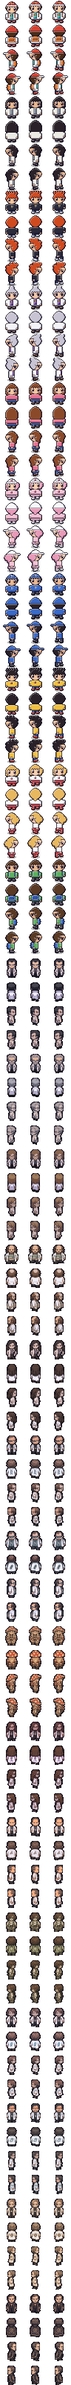
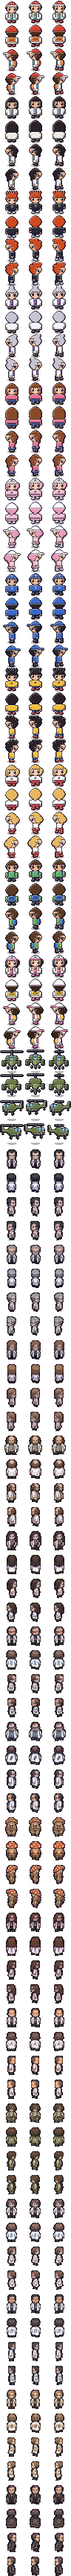
Elección de personaje: chico, chica o helicóptero Apache
Claude-Session: https://claude.ai/code/session_018v1fAZrQHSEnPWssP3zxe4

diff --git a/src/game/scenes/title.ts b/src/game/scenes/title.ts
@@ -2,7 +2,7 @@
 import type { Game, Scene } from "../game";
 import { Gfx, W, H } from "../gfx";
 import { Overworld } from "./overworld";
-import { newState, loadGame, hasSave } from "../state";
+import { newState, loadGame, hasSave, AVATAR_SPRITE, type Avatar } from "../state";
 import { runScript } from "../scripts";
 
 export class TitleScene implements Scene {
@@ -54,12 +54,21 @@ async function newGame(game: Game) {
   game.scene = intro;
   await game.fade(false, 12);
   const say = (t: string) => game.say(t);
-  await say("¡Hola! ¡Bienvenido/a al mundo de los Microos! Soy la Profesora Fanny Hesse.");
+  await say("¡Hola! ¡Te doy la bienvenida al mundo de los Microos! Soy la Profesora Fanny Hesse.");
   await say("Este mundo está habitado por criaturas diminutas llamadas Microos: bacterias, hongos, protozoos, algas… ¡y hasta virus!");
   await say("Algunos nos ayudan a hacer pan y yogur. Otros causan enfermedades. Y todos tienen algo que enseñarnos.");
   await say("Yo dedico mi vida a cultivarlos y estudiarlos. Pero antes… háblame de ti.");
-  const n = await game.choose(["Ana", "Leo", "Iris", "Escribir…"], { prompt: "¿Cómo te llamas?", x: 160, y: 20, cancel: 999 });
-  let name = ["Ana", "Leo", "Iris"][n] ?? "Ana";
+  await game.say("Las gafas no me dejan verte bien. Dime, ¿cómo eres?", { keep: true });
+  const av = AVATARS[await game.run<number>(new AvatarSelect())].id;
+  game.popKept();
+  game.state.avatar = av;
+  if (av === "apache") {
+    await say("…¿Un helicóptero de combate? ¿De verdad?");
+    await say("Bueno… la ciencia no juzga. Eso sí: en el laboratorio, el rotor apagado. ¡Las placas de Petri vuelan!");
+  } else await say(av === "chica" ? "¡Una futura microbióloga! Me encanta." : "¡Un futuro microbiólogo! Me encanta.");
+  const names = { chico: ["Leo", "Hugo", "Marc"], chica: ["Ana", "Iris", "Lucía"], apache: ["AH-64", "Rotor", "Halcón"] }[av];
+  const n = await game.choose([...names, "Escribir…"], { prompt: "¿Cómo te llamas?", x: 160, y: 20, cancel: 999 });
+  let name = names[n] ?? names[0];
   if (n === 3) { const typed = await game.run<string>(new NameEntry()); if (typed.trim()) name = typed.trim(); }
   game.state.name = name;
   await say(`¡Así que te llamas ${name}! Encantada.`);
@@ -77,6 +86,37 @@ export async function enterWorld(game: Game, map: string, x: number, y: number, 
   game.scene = w;
   await game.fade(false, 12);
   void runScript;
+}
+
+const AVATARS: { id: Avatar; label: string }[] = [
+  { id: "chico", label: "Chico" }, { id: "chica", label: "Chica" }, { id: "apache", label: "Apache" },
+];
+/** Elección del personaje: tres tarjetas con el sprite animado. Devuelve el índice. */
+class AvatarSelect {
+  sel = 1; result = 1; t = 0; transparent = true;
+  update(game: Game) {
+    this.t++;
+    if (game.input.repeat("right")) this.sel = (this.sel + 1) % 3;
+    if (game.input.repeat("left")) this.sel = (this.sel + 2) % 3;
+    if (game.input.pressed("a")) { this.result = this.sel; return true; }
+    return false;
+  }
+  draw(g: Gfx, game: Game) {
+    g.pattern("#283860", "#304070", this.t, "#182038");
+    game.keptDialog?.draw(g, game);
+    AVATARS.forEach((a, i) => {
+      const x = 14 + i * 80, y = 22, on = i === this.sel;
+      g.panel(x, y, 68, 100, on ? "#fff0b0" : "#d8e4f0", on ? "#f8b848" : "#8098b8", on ? "#c06818" : "#283048", 6);
+      g.alpha(0.2, () => g.round(x + 14, y + 72, 40, 8, 4, "#000"));
+      const heli = a.id === "apache";
+      const fr = heli ? Math.floor(this.t / 3) % 3 : on ? [0, 1, 0, 2][Math.floor(this.t / 10) % 4] : 0;
+      g.ctx.save(); g.ctx.translate(x + 2, y + 10 + (on && !heli ? 0 : 0)); g.ctx.scale(2, 2);
+      g.character(AVATAR_SPRITE[a.id], 0, fr, 0, heli ? -Math.round(Math.sin(this.t / 12)) : 0);
+      g.ctx.restore();
+      g.text(a.label, x + 34 - g.measure(a.label) / 2, y + 84, on ? "dark" : "white", on);
+    });
+    if (Math.floor(this.t / 20) % 2) { g.text("◀", 4, 66, "white"); g.text("▶", W - 10, 66, "white"); }
+  }
 }
 
 /** Teclado en pantalla para escribir el nombre (los diálogos del navegador no funcionan en todas partes). */

diff --git a/src/game/scripts.ts b/src/game/scripts.ts
@@ -87,6 +87,7 @@ const SCRIPTS: Record<string, Script> = {
     if (!S(game).flags.inicial) {
       await game.say("Madre: ¡Buenos días, {nombre}! La Profesora Hesse ha llamado. Dice que hoy es tu gran día.");
       await game.say("Madre: Su laboratorio está al sur del pueblo. ¡No la hagas esperar!");
+      if (S(game).avatar === "apache") await game.say("Madre: Y esta vez aterriza en el jardín, que las macetas aún no se han recuperado.");
       return;
     }
     await game.say("Madre: ¡Qué bien te veo con tu Microo! Descansad un poco.");
@@ -174,7 +175,7 @@ const SCRIPTS: Record<string, Script> = {
 
   async incubadora(game) {
     const s = S(game);
-    await game.say("¡Hola! Bienvenido/a a la Incubadora. Aquí cultivamos a tus Microos a 37 °C con agitación orbital.");
+    await game.say("¡Hola! Bienvenid{o} a la Incubadora. Aquí cultivamos a tus Microos a 37 °C con agitación orbital.");
     if (!s.party.length) { await game.say("Vaya, no llevas ningún Microo. ¡Vuelve cuando tengas uno!"); return; }
     if (!(await game.yesno("¿Quieres que incube a tus Microos?"))) { await game.say("¡Vuelve cuando quieras!"); return; }
     await game.say("Muy bien. Déjame tus Criobolas un momento…");
@@ -188,7 +189,7 @@ const SCRIPTS: Record<string, Script> = {
   async registrarIncubadora() {},
 
   async tienda(game, _w, arg) {
-    await game.say("¡Bienvenido/a a la Tienda de Medios!");
+    await game.say("¡Bienvenid{o} a la Tienda de Medios!");
     await shopMenu(game, (arg ?? "").split(","));
     await game.say("¡Vuelve pronto!");
   },
@@ -203,7 +204,7 @@ const SCRIPTS: Record<string, Script> = {
 
   async academia(game) {
     const s = S(game);
-    await game.say("Profesora de la Academia: ¡Bienvenido/a a la Academia de Infección y Estados!");
+    await game.say("Profesora de la Academia: ¡Bienvenid{o} a la Academia de Infección y Estados!");
     const c = await game.choose(["Contaminaciones", "Tipos", "Captura", "Nada"], { prompt: "¿Sobre qué quieres aprender?", x: 130, y: 20, cancel: 3 });
     const t: Record<number, string[]> = {
       0: ["Hay seis contaminaciones: desnaturalizado, congelado, paralizado, intoxicado, gravemente intoxicado y fase de latencia.",
@@ -216,7 +217,7 @@ const SCRIPTS: Record<string, Script> = {
     for (const l of t[c] ?? ["¡Vuelve cuando quieras repasar!"]) await game.say(l);
     if (c >= 0 && c < 3 && !s.flags.premioAcademia) {
       s.flags.premioAcademia = true; addItem(s, "solucion-salina", 2);
-      await game.say("¡Muy atento/a! Toma, para que practiques. ¡{nombre} ha recibido 2 Soluciones Salinas!");
+      await game.say("¡Muy atent{o}! Toma, para que practiques. ¡{nombre} ha recibido 2 Soluciones Salinas!");
     }
   },
 
@@ -244,7 +245,7 @@ const SCRIPTS: Record<string, Script> = {
       await game.say("Dr. Solé: Más allá de Ciudad Petri te espera el Monte Micelio. ¡Sigue investigando!");
       return;
     }
-    await game.say("Dr. Solé: ¡Bienvenido/a a mi planta piloto! Soy Antoni Solé, líder del Gimnasio de Ciudad Petri.");
+    await game.say("Dr. Solé: ¡Bienvenid{o} a mi planta piloto! Soy Antoni Solé, líder del Gimnasio de Ciudad Petri.");
     await game.say("Dr. Solé: Mis Microos fermentan la leche, conservan el queso… y a veces estropean una lata. ¡Veamos de qué está hecho tu cultivo!");
     const out = await startBattle(game, world, { battle: battleFor(game, trainerParty("gym1", s.difficulty, rng(game)), false, "Dr. Solé", s.difficulty === "normal" ? { "medio-lb": 2 } : {}), wild: false,
       trainer: { name: "Antoni Solé", clase: "Líder", portrait: "sole", lose: "¡Increíble! Has superado el control de calidad.", money: 100 } });

diff --git a/src/game/scenes/menus.ts b/src/game/scenes/menus.ts
@@ -5,7 +5,7 @@ import type { Overworld } from "./overworld";
 import { SPECIES, ITEMS, getMove, getSpecies, type ItemData } from "../../engine/data";
 import { displayName, NATURES, itemEvolution, expForLevel, type Microo } from "../../engine/microo";
 import { applyItemOutOfBattleLike, type Battle } from "../../engine/battle";
-import { saveGame, playTime, addItem } from "../state";
+import { saveGame, playTime, addItem, AVATAR_SPRITE } from "../state";
 import { evolutionSequence } from "./battle";
 
 const MENU_DOT = ["#e84848", "#48a0e8", "#f0b030", "#48c068", "#a060d8", "#808898", "#e86898"];
@@ -359,7 +359,7 @@ class CardScreen implements Overlay {
     g.panel(14, 14, W - 28, 18, "#f8c058", "#e08828", "#804010", 4);
     g.text("FICHA DE INVESTIGACIÓN", 22, 17, "white");
     g.panel(W - 76, 38, 56, 64, "#c8e8f8", "#88b8e0", "#305080", 5);
-    g.character("protagonista", 0, Math.floor(game.frame / 16) % 3 === 1 ? 1 : 0, W - 64, 56);
+    g.character(AVATAR_SPRITE[s.avatar], 0, Math.floor(game.frame / 16) % 3 === 1 ? 1 : 0, W - 64, 56);
     const rows: [string, string][] = [["Nombre", s.name], ["Créditos", `${s.money}`], ["Microdex", `${s.caught.length} aislados`], ["Tiempo", playTime(s)], ["Dificultad", { facil: "Fácil", normal: "Normal", dificil: "Difícil" }[s.difficulty]]];
     rows.forEach(([k, v], i) => { const y = 40 + i * 15; if (i % 2 === 0) g.rect(18, y - 2, W - 102, 14, "rgba(160,120,40,0.15)"); g.text(k, 22, y, "blue"); g.text(v, 98, y); });
     g.text("Medallas", 22, 122, "blue");

diff --git a/src/game/state.ts b/src/game/state.ts
@@ -2,9 +2,15 @@
 import type { Microo } from "../engine/microo";
 import type { Difficulty } from "../engine/battle";
 
+export type Avatar = "chico" | "chica" | "apache";
+/** Hoja de sprites del mapa para cada personaje jugable. */
+export const AVATAR_SPRITE: Record<Avatar, string> = { chico: "protagonista", chica: "protagonista-chica", apache: "apache" };
+
 export interface GameState {
   version: 1;
   name: string;
+  /** Personaje elegido al empezar. */
+  avatar: Avatar;
   rival: string;
   money: number;
   badges: string[];
@@ -24,7 +30,7 @@ export interface GameState {
 
 export function newState(): GameState {
   return {
-    version: 1, name: "Ana", rival: "Koch", money: 3000, badges: [], flags: {},
+    version: 1, name: "Ana", avatar: "chica", rival: "Koch", money: 3000, badges: [], flags: {},
     party: [], box: [], bag: { "medio-lb": 1 }, seen: [], caught: [],
     map: "casa-jugador", x: 4, y: 5, dir: 0, lastHeal: { map: "casa-jugador", x: 4, y: 5 },
     difficulty: "normal", playFrames: 0, textSpeed: 2, seed: (Math.random() * 2 ** 31) >>> 0,
@@ -41,7 +47,9 @@ export function loadGame(): GameState | null {
     const raw = localStorage.getItem(KEY);
     if (!raw) return null;
     const s = JSON.parse(raw) as GameState;
-    return s.version === 1 ? s : null;
+    if (s.version !== 1) return null;
+    s.avatar ??= "chica";
+    return s;
   } catch { return null; }
 }
 export function hasSave(): boolean { return loadGame() !== null; }

diff --git a/src/game/scenes/overworld.ts b/src/game/scenes/overworld.ts
@@ -1,5 +1,6 @@
 // Escena de mapa: movimiento por casillas, cámara, PNJ, entrenadores, hierba alta y puertas.
 import type { Game, Scene } from "../game";
+import { AVATAR_SPRITE } from "../state";
 import type { Gfx } from "../gfx";
 import { W, H } from "../gfx";
 import { MAPS } from "../world/maps";
@@ -258,11 +259,13 @@ export class Overworld implements Scene {
     const psx = this.px * 16 + this.ox - cx, psy = this.py * 16 + this.oy - cy;
     const pfr = this.moving > 0 ? (Math.floor((this.px + this.py) % 2 === 0 ? (this.moving > 8 ? 1 : 0) : (this.moving > 8 ? 2 : 0))) : 0;
     const jy = this.jumping > 0 ? -Math.round(Math.sin(((32 - this.jumping) / 32) * Math.PI) * 8) : 0;
-    ents.push({ y: psy, d: () => g.character("protagonista", this.dir, pfr, psx - 8, psy - 18 + jy) });
+    const heli = this.game.state.avatar === "apache";
+    const pf = heli ? Math.floor(this.game.frame / 3) % 3 : pfr;      // el rotor gira siempre
+    ents.push({ y: psy, d: () => g.character(AVATAR_SPRITE[this.game.state.avatar], this.dir, pf, psx - 8, psy - 18 + jy) });
     ents.sort((a, b) => a.y - b.y).forEach((e) => e.d());
     // la hierba alta tapa los pies del jugador
     const gt = tileAt(this.map, this.px, this.py);
-    if (isGrass(gt) && this.moving === 0) {
+    if (isGrass(gt) && this.moving === 0 && !heli) {
       const i = TILES[gt];
       g.ctx.drawImage(IMG.tiles, (i % 16) * 16, Math.floor(i / 16) * 16 + 10, 16, 6, psx, psy + 10, 16, 6);
     }

diff --git a/src/game/game.ts b/src/game/game.ts
@@ -73,8 +73,11 @@ export class Game {
   keptDialog: Dialog | null = null;
   fade(out: boolean, frames = 16): Promise<void> { return this.run(new Fade(out, frames)) as Promise<void>; }
   blackout = 0;
-  /** Sustituye {nombre} y {rival}. */
-  fill(t: string) { return t.replaceAll("{nombre}", this.state.name).replaceAll("{rival}", this.state.rival); }
+  /** Sustituye {nombre}, {rival} y {o} (terminación de género: o / a). */
+  fill(t: string) {
+    return t.replaceAll("{nombre}", this.state.name).replaceAll("{rival}", this.state.rival)
+      .replaceAll("{o}", this.state.avatar === "chica" ? "a" : "o");
+  }
 }
 
 class WaitOverlay implements Overlay {

diff --git a/tools/art/characters_ds.py b/tools/art/characters_ds.py
@@ -159,6 +159,8 @@ def render(lab, p, mirror=False):
         "falda": ramp(p.get("falda") or "#888888"), "detalle": ramp(p.get("detalle") or "#ffffff"),
         "gafas": ramp("#383848"),
     }
+    for k, v in p.items():
+        if k.startswith("x_"): pal[k] = ramp(v)
     pal["pantalon_sombra"] = [pal["pantalon"][0]] * 2 + [pal["pantalon"][1], pal["pantalon"][2]]
     pal["mochila_bolsillo"] = [pal["mochila"][0], pal["mochila"][0], pal["mochila"][1], pal["mochila"][2]]
     img = np.zeros((32, 32, 4), np.uint8)
@@ -168,6 +170,7 @@ def render(lab, p, mirror=False):
             m = lab[y, x]
             if not m: continue
             if m == "ojo": col = FIXED["ojo"]
+            elif m == "x_luz": col = (255, 80, 60) if p.get("_blink") else (120, 30, 30)
             elif m == "brillo": col = FIXED["brillo"]
             elif m == "mejilla": col = mix(pal["piel"][2], (240, 120, 120), 0.45)
             elif m == "piel_sombra": col = pal["piel"][1]
@@ -229,7 +232,73 @@ P = {
  "estudiante": dict(pelo="corto", pelo_c="#5a3a24", piel="#e8b890", camisa="#5cb060", pantalon="#4a4a5a", zapato="#3a3038",
                     mochila="#3a6ac8", gafas=True),
 }
+P["protagonista-chica"] = dict(pelo="coleta", pelo_c="#3a2418", piel="#f6d0b0", camisa="#e8608a", bata="#f2f2f6",
+    pantalon="#f2f2f6", falda="#2a3050", zapato="#e8608a", gorra="#f8f8fc", visera="#e8608a", logo="#2fa39a",
+    mochila="#f0c040", detalle="#2fa39a")
+P["apache"] = dict(helicoptero=True, piel="#000000", pelo_c="#000000", camisa="#000000", pantalon="#000000", zapato="#000000",
+    x_fuselaje="#6a7a44", x_vientre="#8a9a5c", x_cabina="#78b8d8", x_metal="#3a3e44", x_rotor="#2a2c30",
+    x_pod="#4a5236", x_punta="#c8c0a0")
 CHARACTERS = list(P)
+
+# ------------------------------------------------------------------------- helicóptero de combate
+def poly(pts):
+    from matplotlib.path import Path as MP
+    return MP(pts).contains_points(np.c_[XX.ravel(), YY.ravel()]).reshape(32, 32)
+
+def draw_heli(view, step):
+    """Helicóptero de ataque en vuelo estacionario; el rotor gira con el fotograma."""
+    c = Canvas()
+    blade = [(1, 31), (5, 27), (10, 22)][step]
+    if view in ("abajo", "arriba"):
+        if view == "arriba":                                   # cola hacia el jugador
+            c.paint(box(14.5, 17, 17.5, 28), "x_fuselaje")
+            c.paint(box(11, 25, 21, 26.5), "x_fuselaje")
+            c.paint(box(15, 24, 17, 30), "x_metal")
+        c.paint(box(10, 24, 12, 27) | box(20, 24, 22, 27), "x_metal")      # tren de aterrizaje
+        c.paint(box(5, 17, 27, 19.5), "x_fuselaje")                         # alas cortas
+        c.paint(box(3.5, 16, 8, 23) | box(24, 16, 28.5, 23), "x_pod")       # lanzacohetes
+        for x in (4.5, 6.5, 25.5, 27.5):
+            c.px(int(x), 22, "x_punta")
+        c.paint(ell(11, 13, 2.6, 3.5) | ell(21, 13, 2.6, 3.5), "x_fuselaje")  # motores
+        c.paint(ell(16, 16, 5, 8.5), "x_fuselaje")
+        c.paint(ell(16, 19, 3.5, 4.5), "x_vientre")
+        if view == "abajo":
+            c.paint(ell(16, 12.5, 3.4, 4.2), "x_cabina")
+            c.paint(box(13, 12, 19, 12.7), "x_fuselaje")                    # marco de la cabina
+            c.paint(box(15, 23, 17, 27), "x_metal")                          # cañón bajo el morro
+            c.px(16, 27, "x_rotor")
+            c.px(16, 9, "x_luz")
+        else:
+            c.paint(ell(16, 12.5, 3.2, 3.8), "x_fuselaje")
+            c.px(16, 9, "x_luz")
+        c.paint(box(15, 4, 17, 8), "x_metal")                                # mástil
+        c.paint(box(blade[0], 3.4, blade[1], 4.8), "x_rotor")
+        if step: c.paint(box(15.2, 1, 16.8, 7.5), "x_rotor")                # pala perpendicular
+        c.paint(ell(16, 4, 2, 1.6), "x_metal")
+    else:                                                     # perfil mirando a la izquierda
+        c.paint(box(20, 13, 30, 15.8), "x_fuselaje")                         # botalón de cola
+        c.paint(poly([(26.5, 15), (28, 7), (30.5, 7), (30.5, 15)]), "x_fuselaje")  # deriva
+        c.paint(box(24, 15, 30, 16.5), "x_fuselaje")                         # estabilizador
+        tr = [(6.5, 12.5), (8.5, 10.5), (10, 9)][step]
+        c.paint(box(30.5, tr[0], 31.5, tr[1] + 4), "x_rotor")                # rotor de cola
+        c.paint(ell(28, 18.5, 1.1, 1.1), "x_metal")
+        c.paint(box(7.5, 20, 9, 23) | box(16.5, 20, 18, 23), "x_metal")      # tren
+        c.paint(ell(8.2, 23.5, 1.6, 1.4) | ell(17.2, 23.5, 1.6, 1.4), "x_rotor")
+        c.paint(ell(13, 16, 9, 4.6), "x_fuselaje")
+        c.paint(ell(17, 12.2, 4.5, 2.6), "x_fuselaje")                       # motor
+        c.paint(ell(13, 18.5, 7.5, 2), "x_vientre")
+        c.paint(ell(8.5, 13.2, 4.2, 2.8) & (YY < 15.2), "x_cabina")          # cabina en tándem
+        c.paint(box(8, 10, 9, 15.2), "x_fuselaje")
+        c.paint(box(10, 17, 20, 18.5), "x_fuselaje")                         # ala corta
+        c.paint(box(10.5, 18, 19.5, 21), "x_pod")
+        c.px(10, 19, "x_punta"); c.px(10, 20, "x_punta")
+        c.paint(box(4, 19, 7.5, 20.4), "x_metal")                             # cañón
+        c.px(4, 15, "x_luz")
+        c.paint(box(15, 7, 17, 10), "x_metal")
+        c.paint(box(blade[0], 6.4, blade[1], 7.8), "x_rotor")
+        c.paint(ell(16, 7, 2, 1.4), "x_metal")
+    return c.lab
+
 
 def sheet(cid):
     p = P[cid]
@@ -237,7 +306,10 @@ def sheet(cid):
     views = [("abajo", False), ("arriba", False), ("lado", False), ("lado", True)]
     for row, (v, mir) in enumerate(views):
         for col, st in enumerate((0, 1, 2)):
-            out.alpha_composite(render(draw(p, v, st), p, mir), (col * 32, row * 32))
+            lab = draw_heli(v, st) if p.get("helicoptero") else draw(p, v, st)
+            if p.get("helicoptero"):                                   # vuelo: sube y baja
+                lab = np.roll(lab, -1 - (st == 1), axis=0); lab[-2:] = ""
+            out.alpha_composite(render(lab, dict(p, _blink=st == 1), mir), (col * 32, row * 32))
     OUT.mkdir(parents=True, exist_ok=True)
     out.save(OUT / f"{cid}_mapa.png")
     return out

diff --git a/PROGRESO.md b/PROGRESO.md
@@ -50,6 +50,7 @@ Roadmap: 7 fases (0–6). Cada fase termina en una puerta.
 - Diseños a mano por especie (`tools/art/designs1.py`, `designs2.py`): las 3 líneas iniciales y los 29 Microos del primer tramo (Ruta 1, Bosque Viral, Gimnasio 1 y evoluciones). Cada uno con concepto de criatura propio (brote de hojas, cola de llama, campana con cilios, cápside icosaédrica...).
 - Personajes de mapa nuevos (`tools/art/characters_ds.py`): figura de ~26 px con cabeza grande, sombreado de 4 tonos por material, brillo en los ojos, contorno teñido, sombra en el suelo y animación de paso real (piernas alternas, balanceo de brazos, rebote).
 - Menús estilo DS (kit en `gfx.ts`: paneles con degradado, fondos con motivo animado, etiquetas de tipo, barras): menú de inicio, equipo en 2 columnas, resumen con pestañas INFO/MOVIMIENTOS, mochila con bolsa por bolsillo, Microdex rojo con pantalla y lista, ficha con medallas y tienda.
+- Elección de personaje al empezar: chico, chica o helicóptero de combate Apache (sprite propio con rotor que gira y vuelo estacionario, frases propias de la Profesora y la madre). Los textos usan {o} para el género.
 - Pendiente: pasos de los líderes convertidos del GDD; diseños a mano del resto de especies (124); textos de «Organismo» en el Microdex.
 - Nota: el combate contra Solé con un equipo Nv25+22 se gana o se pierde según la suerte (revisar en fase 5).
 
